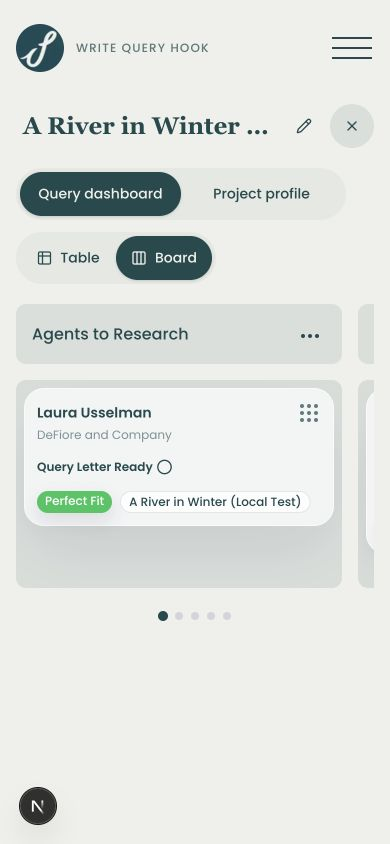
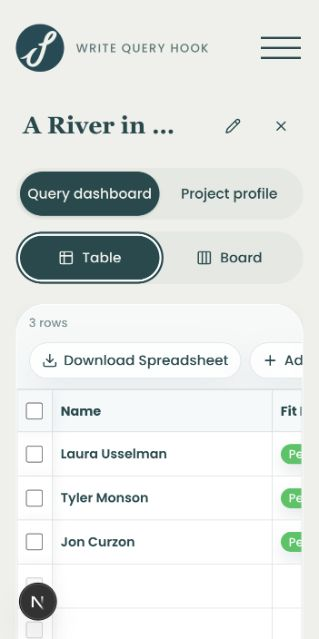
Use full-width project and display toggles on mobile

diff --git a/app/ui-primitives/segmented-control.tsx b/app/ui-primitives/segmented-control.tsx
@@ -17,7 +17,7 @@ export function SegmentedControl({
       data-slot="segmented-control"
       data-active-index={activeIndex}
       className={cn(
-        "relative isolate grid w-full max-w-[330px] grid-cols-2 rounded-full bg-accent/5 p-1 before:pointer-events-none before:absolute before:inset-y-1 before:left-1 before:w-[calc((100%_-_0.5rem)/2)] before:rounded-full before:bg-accent before:shadow-sm before:transition-transform before:duration-200 before:ease-in-out before:content-[''] data-[active-index=1]:before:translate-x-full motion-reduce:before:transition-none",
+        "relative isolate grid w-full grid-cols-2 rounded-full bg-accent/5 p-1 before:pointer-events-none before:absolute before:inset-y-1 before:left-1 before:w-[calc((100%_-_0.5rem)/2)] before:rounded-full before:bg-accent before:shadow-sm before:transition-transform before:duration-200 before:ease-in-out before:content-[''] data-[active-index=1]:before:translate-x-full motion-reduce:before:transition-none",
         className,
       )}
       {...props}

diff --git a/app/components/projects/project-view-toggle.tsx b/app/components/projects/project-view-toggle.tsx
@@ -11,7 +11,11 @@ export function ProjectViewToggle({ projectId }: { projectId: string }) {
   const pathname = usePathname();
   const profileActive = pathname.endsWith("/profile");
   return (
-    <SegmentedControl activeIndex={profileActive ? 1 : 0} asChild>
+    <SegmentedControl
+      activeIndex={profileActive ? 1 : 0}
+      className="md:max-w-[330px]"
+      asChild
+    >
       <nav aria-label="Project views">
         {[
           { view: "dashboard", label: "Query dashboard" },

diff --git a/app/(app)/query-dashboard/components/query-dashboard-view-toggle.tsx b/app/(app)/query-dashboard/components/query-dashboard-view-toggle.tsx
@@ -23,7 +23,7 @@ export function QueryDashboardViewToggle() {
     >
       <SegmentedControl
         activeIndex={dashboardView === "board" ? 1 : 0}
-        className="w-[200px] max-w-full shrink-0"
+        className="md:w-[200px] md:shrink-0"
       >
         <ToggleGroup.Item value="table" asChild>
           <SegmentedControlItem

diff --git a/docs/releases/project-profiles.md b/docs/releases/project-profiles.md
@@ -40,7 +40,8 @@ Project views and Table/Board share the same `SegmentedControl` presentation,
 including the rounded track, 44px targets, and animated selection pill. Table/Board
 uses Radix Toggle Group for single selection and keyboard focus. Both controls
 sit in one header row from the desktop breakpoint and stack, left aligned, on
-mobile. The display control appears only on the dashboard; its selection is
+mobile, where each fills the project column. The display control appears only
+on the dashboard; its selection is
 retained when visiting the profile.
 The title, view navigation, dashboard table, and profile panel share the full
 available project column and the same left edge. Table/board selection is retained
@@ -113,8 +114,11 @@ the owned dashboard whose link is empty; it does not change saved-agent rows.
   navigation and no Table/Board control. Returning to the dashboard retains Board
   selection. Clicking the selected option leaves it selected; ArrowLeft moves
   focus to Table and Space selects it. No document overflow at these widths or
-  the browser's restored 319px viewport. The 101 tests, app-scoped TypeScript,
-  changed-file ESLint, and diff checks pass after the toggle change.
+  the browser's restored 319px viewport. The mobile width refinement was checked
+  at that viewport: both controls match the 287px project column. Desktop controls
+  retain their 330px and 200px widths on the same row. The 101 tests, app-scoped
+  TypeScript, changed-file ESLint, and diff checks pass after the toggle change;
+  lint and diff checks also pass after the CSS-only mobile width refinement.
 - An unsaved title edit survived view navigation, confirming that the header
   stays mounted. Renaming from the profile persisted on the dashboard; the sample
   title was restored afterward. Table/Board selection survived a round trip to
